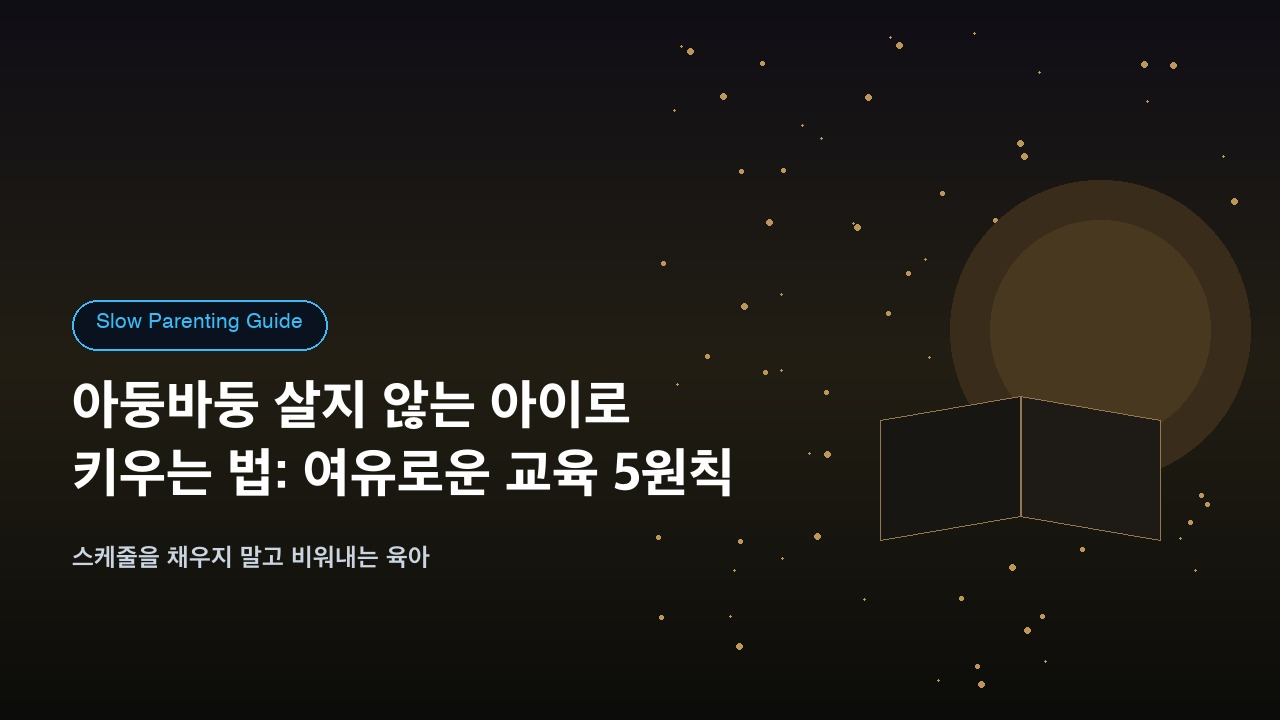
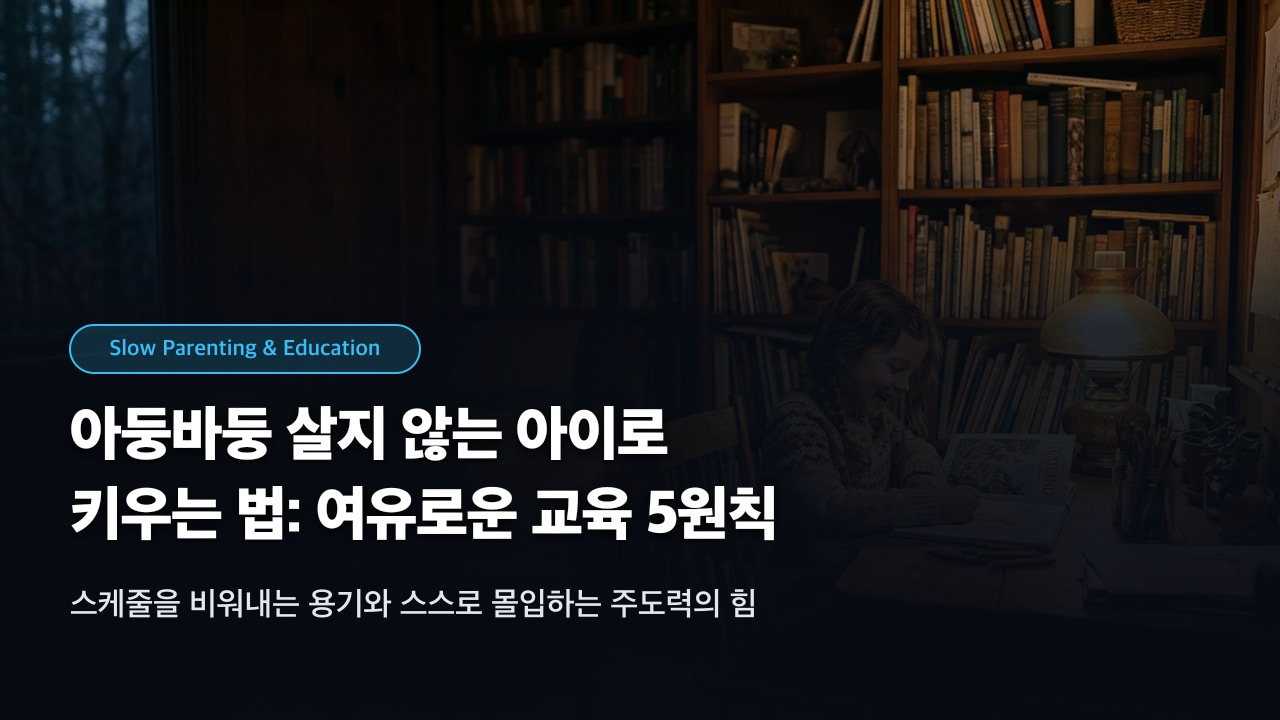
content: 여유로운 자녀 교육 가이드 본문 심화 개편 및 썸네일 스타일 표준화

diff --git a/files/posts/20261005-2-leisurely-child-education-guide.md b/files/posts/20261005-2-leisurely-child-education-guide.md
@@ -30,9 +30,100 @@ excerpt: "밤낮없이 공부해도 쫓기며 사는 아이들. 스케줄을 더
 
 핵심은 공부량이 아니라 <strong>주도권</strong>입니다. 같은 3시간이라도 누가 핸들을 잡느냐가 아이의 삶을 가릅니다.
 
+> 🧠 <strong>뇌신경과학이 밝힌 여백의 가치: DMN(디폴트 모드 네트워크)</strong><br />
+> 뇌가 아무런 외적 과제에 쫓기지 않고 멍하니 쉴 때 활성화되는 <strong>디폴트 모드 네트워크(Default Mode Network, DMN)</strong>는 낮 동안 배운 지식을 장기 기억으로 통합하고, 창의적인 영감을 도출하며, '나는 누구인가'를 성찰하는 핵심 신경망입니다. 1분 1초도 쉬지 않고 스케줄로 뇌를 채우면 DMN이 차단되어 지식을 소화할 시간을 영영 잃게 됩니다.
+
+<div class="diagram-container" style="margin: 36px 0; display: flex; justify-content: center; width: 100%;">
+<svg viewBox="0 0 840 450" style="width: 100%; max-width: 840px; height: auto; font-family: -apple-system, BlinkMacSystemFont, 'Pretendard', sans-serif;" xmlns="http://www.w3.org/2000/svg">
+  <defs>
+    <filter id="card-shadow" x="-5%" y="-5%" width="110%" height="115%">
+      <feDropShadow dx="0" dy="4" stdDeviation="6" flood-opacity="0.2" />
+    </filter>
+  </defs>
+
+  <rect x="15" y="15" width="810" height="420" rx="16" fill="#12161f" stroke="#2d3748" stroke-width="1.5" />
+
+  <g transform="translate(35, 48)">
+    <text x="0" y="0" font-size="16" font-weight="700" fill="#f8fafc" letter-spacing="-0.3px">
+      🔄 쫓기는 악순환 vs 여유로운 자기주도 선순환 모델
+    </text>
+    <line x1="-5" y1="16" x2="775" y2="16" stroke="#2d3748" stroke-width="1" />
+  </g>
+
+  <!-- Left: Vicious Cycle -->
+  <g transform="translate(45, 90)" filter="url(#card-shadow)">
+    <rect width="360" height="315" rx="12" fill="rgba(239, 68, 68, 0.08)" stroke="#ef4444" stroke-width="1.5" />
+    <rect x="0" y="0" width="360" height="42" rx="12" fill="rgba(239, 68, 68, 0.2)" />
+    <text x="180" y="27" font-size="14" font-weight="700" fill="#f87171" text-anchor="middle">
+      ❌ 쫓기는 악순환 (불안 기반 주입)
+    </text>
+
+    <g transform="translate(20, 65)">
+      <circle cx="12" cy="12" r="12" fill="#ef4444" opacity="0.3" />
+      <text x="12" y="17" font-size="11" font-weight="700" fill="#fca5a5" text-anchor="middle">1</text>
+      <text x="36" y="17" font-size="13" font-weight="600" fill="#f1f5f9">스케줄 과밀화 (학원 3개+숙제)</text>
+    </g>
+
+    <g transform="translate(20, 125)">
+      <circle cx="12" cy="12" r="12" fill="#ef4444" opacity="0.3" />
+      <text x="12" y="17" font-size="11" font-weight="700" fill="#fca5a5" text-anchor="middle">2</text>
+      <text x="36" y="17" font-size="13" font-weight="600" fill="#f1f5f9">수면 부족 &amp; 뇌 여백(DMN) 차단</text>
+    </g>
+
+    <g transform="translate(20, 185)">
+      <circle cx="12" cy="12" r="12" fill="#ef4444" opacity="0.3" />
+      <text x="12" y="17" font-size="11" font-weight="700" fill="#fca5a5" text-anchor="middle">3</text>
+      <text x="36" y="17" font-size="13" font-weight="600" fill="#f1f5f9">수동적 번아웃 &amp; 학습 무기력</text>
+    </g>
+
+    <g transform="translate(20, 245)">
+      <circle cx="12" cy="12" r="12" fill="#ef4444" opacity="0.3" />
+      <text x="12" y="17" font-size="11" font-weight="700" fill="#ef4444" text-anchor="middle">4</text>
+      <text x="36" y="17" font-size="13" font-weight="700" fill="#ef4444">부모 불안 증폭 ➔ 학원 추가 (재순환)</text>
+    </g>
+  </g>
+
+  <!-- Right: Virtuous Cycle -->
+  <g transform="translate(435, 90)" filter="url(#card-shadow)">
+    <rect width="360" height="315" rx="12" fill="rgba(16, 185, 129, 0.08)" stroke="#10b981" stroke-width="1.5" />
+    <rect x="0" y="0" width="360" height="42" rx="12" fill="rgba(16, 185, 129, 0.2)" />
+    <text x="180" y="27" font-size="14" font-weight="700" fill="#34d399" text-anchor="middle">
+      ✅ 여유로운 선순환 (자율성 기반 몰입)
+    </text>
+
+    <g transform="translate(20, 65)">
+      <circle cx="12" cy="12" r="12" fill="#10b981" opacity="0.3" />
+      <text x="12" y="17" font-size="11" font-weight="700" fill="#6ee7b7" text-anchor="middle">1</text>
+      <text x="36" y="17" font-size="13" font-weight="600" fill="#f1f5f9">스케줄에서 '빈 시간' 먼저 고정</text>
+    </g>
+
+    <g transform="translate(20, 125)">
+      <circle cx="12" cy="12" r="12" fill="#10b981" opacity="0.3" />
+      <text x="12" y="17" font-size="11" font-weight="700" fill="#6ee7b7" text-anchor="middle">2</text>
+      <text x="36" y="17" font-size="13" font-weight="600" fill="#f1f5f9">심심함에서 싹트는 내적 호기심</text>
+    </g>
+
+    <g transform="translate(20, 185)">
+      <circle cx="12" cy="12" r="12" fill="#10b981" opacity="0.3" />
+      <text x="12" y="17" font-size="11" font-weight="700" fill="#6ee7b7" text-anchor="middle">3</text>
+      <text x="36" y="17" font-size="13" font-weight="600" fill="#f1f5f9">스스로 선택한 1가지 깊은 몰입</text>
+    </g>
+
+    <g transform="translate(20, 245)">
+      <circle cx="12" cy="12" r="12" fill="#10b981" opacity="0.3" />
+      <text x="12" y="17" font-size="11" font-weight="700" fill="#10b981" text-anchor="middle">4</text>
+      <text x="36" y="17" font-size="13" font-weight="700" fill="#10b981">자율성·유능감 ➔ 장기 공부 지구력</text>
+    </g>
+  </g>
+</svg>
+</div>
+<p style="margin-top: -10px; margin-bottom: 28px; text-align: center; font-size: 13px; color: var(--text-secondary, #a1a1aa);">▲ 외부 통제에 의한 쫓기는 악순환 vs 빈 시간과 자율성이 만드는 자기주도 선순환 모델</p>
+
 ---
 
 ## 🌱 2. 여유로운 교육 5원칙
+
+심리학의 <strong>자기결정성 이론(Self-Determination Theory)</strong>에 따르면, 인간은 <strong>자율성(Autonomy)</strong>과 <strong>유능감(Competence)</strong>을 느낄 때 비로소 외부 보상 없이도 스스로 몰입하는 내적 동기(Intrinsic Motivation)를 발휘합니다. 아래 5원칙은 이 자율성을 일상에 뿌리내리게 하는 실천 프레임워크입니다.
 
 ### 원칙 1: 빈 시간을 스케줄에 먼저 넣는다
 여유는 남는 시간이 아니라 <strong>먼저 확보하는 시간</strong>입니다. 주 3회, 하루 1시간의 '아무것도 안 해도 되는 시간'을 학원보다 먼저 고정하세요. 처음에는 멍하니 보내겠지만, 몇 주 지나면 그 빈칸에서 스스로 놀이와 탐구가 자라납니다.
@@ -47,19 +138,19 @@ excerpt: "밤낮없이 공부해도 쫓기며 사는 아이들. 스케줄을 더
 밤낮없이 시키는 공부는 기억 정리를 담당하는 수면을 갉아먹습니다. <strong>잠을 줄여가며 하는 공부는 이자 높은 빚</strong>과 같습니다. 스스로 원해서 늦게 자는 것과, 쫓겨서 못 자는 것은 완전히 다릅니다. 후자라면 스케줄을 줄이세요.
 
 ### 원칙 5: 부모가 먼저 여유로워진다
-아이는 부모의 말을 듣는 게 아니라 <strong>부모의 삶을 봅니다.</strong> 퇴근 후에도 일 얘기·학원 상담뿐인 집에서 아이만 여유로울 수는 없습니다. 가족 산책, 함께 읽는 20분 같은 작은 여유를 부모가 먼저 실천하세요.
+아이에게 "여유를 가져라"라고 말하면서 부모 자신은 퇴근 후에도 스마트폰 업무 카톡과 학원 커뮤니티에 쫓기고 있다면, 아이는 부모의 말이 아니라 <strong>부모의 불안한 삶의 태도를 모방(Modeling)</strong>합니다. 가족 산책, 함께 책 읽는 20분 같은 작은 여백을 부모가 먼저 보여주어야 합니다.
 
 ---
 
 ## 🧸 3. 놀이는 사치가 아니라 발달의 본업이다
 
-2007년 미국소아과학회(AAP) 보고서는 <strong>놀이가 아이의 창의성·문제해결력·사회성 발달에 핵심적</strong>이라는 점을 강조하며, 과도한 구조화된 스케줄이 아이의 발달 기회를 빼앗을 수 있다고 지적했습니다. 이후 수많은 후속 논의가 같은 방향을 가리킵니다. <strong>빈둥거림이 아니라 설계된 여백이 필요하다</strong>는 것입니다.
+2007년 미국소아과학회(AAP) 보고서는 <strong>놀이가 아이의 창의성·문제해결력·사회성 발달에 핵심적</strong>이라는 점을 강조하며, 과도한 구조화된 스케줄이 아이의 발달 기회를 빼앗을 수 있다고 지적했습니다. 하버드 대학교 아동발달센터(Center on the Developing Child) 연구 역시 아동 뇌 신경망 구축의 핵심으로 탁구공을 주고받듯 교감하는 <strong>'서브 앤 리턴(Serve and Return)' 상호작용</strong>을 꼽습니다. 꽉 짜인 학원 스케줄 속에서는 아이의 호기심(서브)에 부모가 여유롭게 맞받아칠(리턴) 틈새가 완전히 사라집니다. <strong>빈둥거림이 아니라 설계된 여백이 필요한 이유</strong>입니다.
 
 실천은 거창할 필요가 없습니다.
 
-* 하교 후 1시간은 학원 숙제가 아니라 <strong>밖에서 노는 시간</strong>으로 지킵니다.
-* 주말 하루는 <strong>가족과 함께 보내는 날</strong>로 고정하고 학원을 비웁니다.
-* 아이가 "심심해"라고 하면 곧바로 해법을 주지 말고 <strong>10분만 기다립니다.</strong> 심심함이 놀이의 입구입니다.
+* 하교 후 1시간은 학원 숙제가 아니라 <strong>밖에서 자유롭게 노는 시간</strong>으로 지킵니다.
+* 주말 하루는 <strong>가족과 함께 보내는 날</strong>로 고정하고 학원이나 학습지 보충을 비웁니다.
+* 아이가 "심심해"라고 하면 곧바로 해법(스마트폰이나 학습지)을 주지 말고 <strong>10분만 기다립니다.</strong> 심심함을 견디는 지루함의 힘(Boredom tolerance)이 놀이와 자기 주도적 몰입의 입구입니다.
 
 ---
 
@@ -79,13 +170,14 @@ excerpt: "밤낮없이 공부해도 쫓기며 사는 아이들. 스케줄을 더
 
 ---
 
-## 🗣 4. 오늘부터 바꾸는 부모의 말 5가지
+## 🗣 5. 오늘부터 바꾸는 부모의 말 6가지
 
 원칙보다 빠른 것은 말투입니다. 같은 상황에서도 말이 바뀌면 아이가 느끼는 공기가 바뀝니다.
 
 | 상황 | 바꾸기 전 | 바꾼 뒤 |
 | :--- | :--- | :--- |
 | <strong>빈둥거릴 때</strong> | "그렇게 놀면 커서 뭐가 되려고?" | <strong>"지금 뭐 생각 중이야? 재미있는 거 있어?"</strong> |
+| <strong>진도가 밀렸을 때</strong> | "밀린 숙제 다 하기 전엔 밥 먹을 생각도 마!" | <strong>"어디서 막혔는지 알려줄래? 15분 단위로 쪼개서 보자."</strong> |
 | <strong>성적이 떨어졌을 때</strong> | "학원비를 얼마를 썼는데!" | <strong>"어디서부터 꼬였는지 같이 보자."</strong> |
 | <strong>포기하려 할 때</strong> | "시작했으면 끝을 봐야지!" | <strong>"그만둘 수도 있어. 대신 이유만 말해줘."</strong> |
 | <strong>남과 비교될 때</strong> | "옆집 민준이는 벌써..." | <strong>"지난달의 너랑만 비교하자."</strong> |
@@ -95,20 +187,23 @@ excerpt: "밤낮없이 공부해도 쫓기며 사는 아이들. 스케줄을 더
 
 ---
 
-## ❓ 자주 묻는 질문
+## ❓ 6. 자주 묻는 질문
 
 <strong>Q1. 그래도 남들 다 학원 가는데 우리만 빼면 뒤처지지 않나요?</strong><br />
 A. 뒤처짐의 기준을 성적표 한 장으로만 보면 불안합니다. 기준을 <strong>'스스로 공부하는 힘'</strong>으로 바꾸면, 여유로운 아이가 장기전에서 유리합니다. 당장 이번 학기 1등이 목표라면 학원이 맞지만, 10년 뒤 주도적 삶이 목표라면 여백이 맞습니다.
 
 <strong>Q2. 아이가 빈 시간에 게임·영상만 보면 어떡하죠?</strong><br />
-A. 첫 2\~3주는 그럴 수 있습니다. 평생 금지된 것을 처음 만난 것과 같습니다. 기다리면 대개 스스로 조절점을 찾습니다.  한 달이 지나도 변함없다면 게임 시간을 <strong>함께 정하는 협상</strong>으로 바꾸세요. 일방 통보가 아니라 협상이 핵심입니다.
+A. 첫 2\~3주는 그럴 수 있습니다. 평생 통제되던 것이 갑자기 풀리면 나타나는 자연스러운 반동 현상입니다. 기다리면 대개 스스로 조절점을 찾습니다. 한 달이 지나도 변함없다면 게임 시간을 <strong>함께 정하는 협상</strong>으로 바꾸세요. 일방 통보가 아니라 협상이 핵심입니다.
 
 <strong>Q3. 맞벌이라 빈 시간을 봐줄 사람이 없어요.</strong><br />
-A. 여백이 꼭 부모 동행을 뜻하지는 않습니다. 안전한 동네 친구, 도서관, 방과후 놀이 프로그램도 여백이 됩니다. 중요한 것은 <strong>구조화된 수업이 아닌 시간</strong>입니다.
+A. 여백이 꼭 부모 동행을 뜻하지는 않습니다. 안전한 동네 친구, 도서관, 방과후 놀이 프로그램도 여백이 됩니다. 중요한 것은 <strong>성인에 의해 강제된 구조화된 수업이 아닌 시간</strong>입니다.
+
+<strong>Q4. 여유 시간을 주면 유튜브나 스마트폰 숏폼만 보며 도파민에 중독되는 건 아닌가요?</strong><br />
+A. 빈 시간을 주되 <strong>디지털 환경의 물리적 경계(거실 충전 원칙, 수면 1시간 전 기기 보관함 배치)</strong>는 부모가 든든한 울타리(Scaffolding) 역할을 해주어야 합니다. '수동적인 숏폼 자극에 노출되는 시간'과 '뇌가 스스로 생각을 정리하는 빈 시간(DMN)'은 전혀 다릅니다. 심심함의 지루함을 견디는 힘을 기르려면 초기에는 디지털 기기를 물리적으로 분리하는 환경 설계가 반드시 병행되어야 합니다.
 
 ---
 
-## 💡 맺음말: 아둥바둥의 반대말은 나태가 아니라 주도다
+## 💡 7. 맺음말: 아둥바둥의 반대말은 나태가 아니라 주도다
 
 여유롭게 키운다는 말을 나태하게 키운다는 뜻으로 오해하면 안 됩니다. 진짜 반대말은 <strong>주도적인 삶</strong>입니다. 스스로 정하고, 몰입하고, 실패하고, 복기하는 아이는 바쁘게 살아도 쫓기지 않습니다.
 
